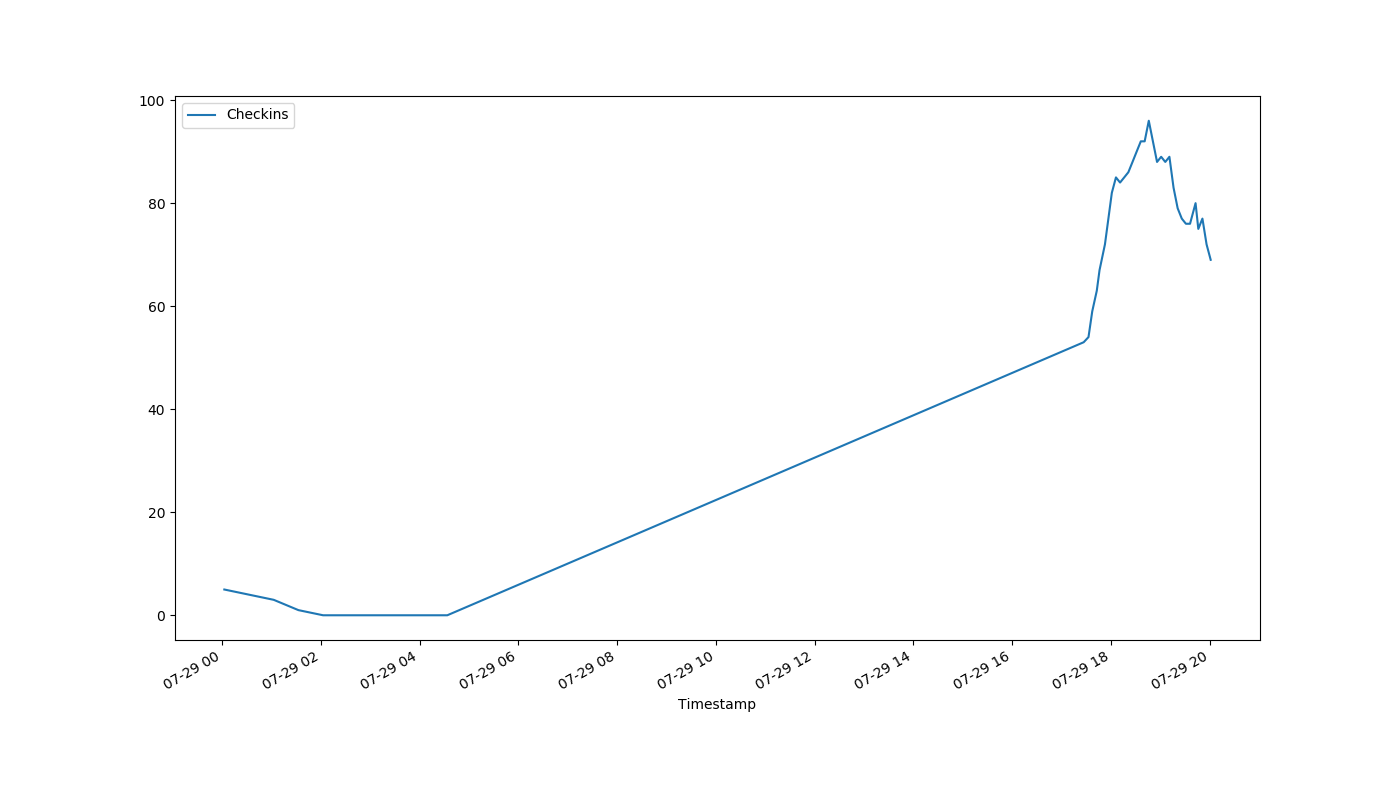
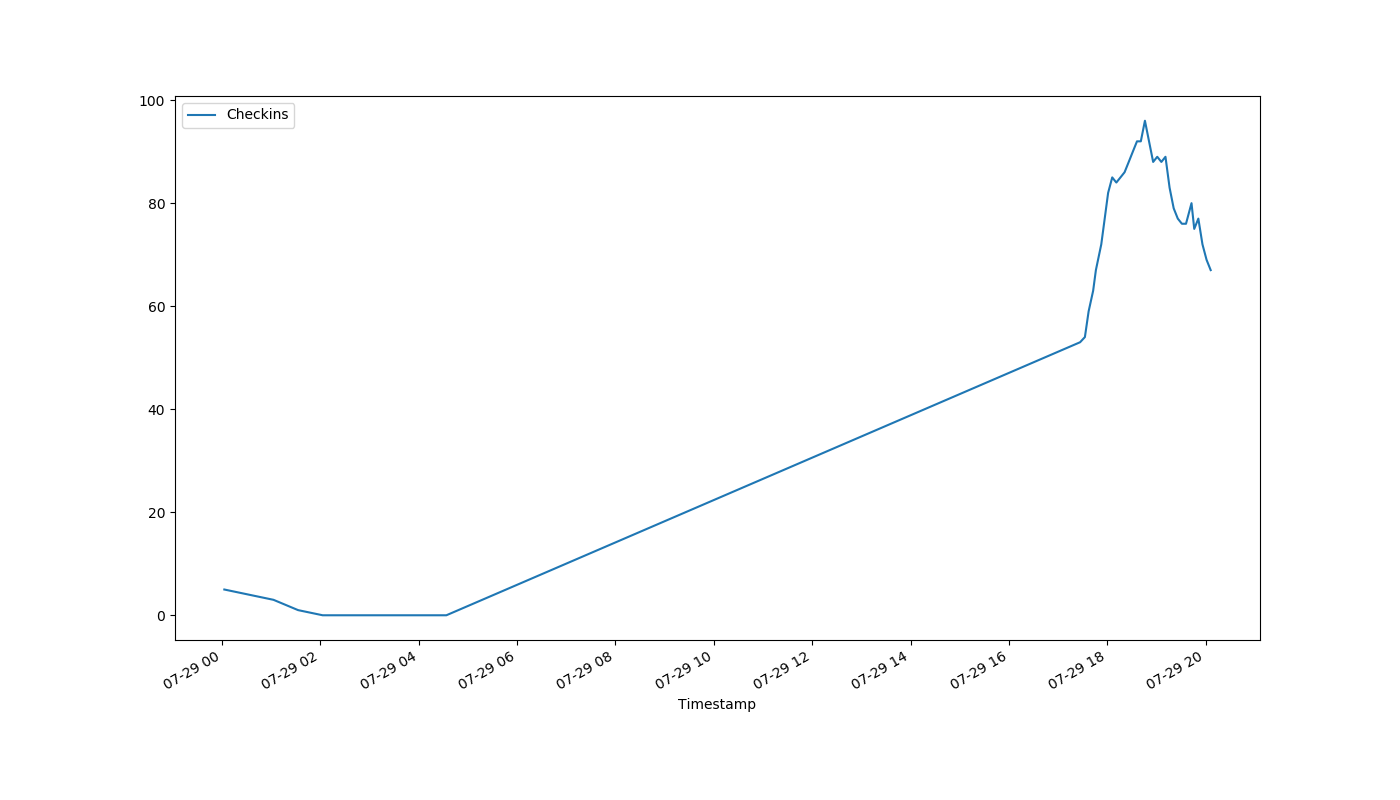
auto-Jul-29-20:08:33

diff --git a/index.html b/index.html
@@ -1,1 +1,1 @@
-<!DOCTYPE html><html><head><meta http-equiv="refresh" content="30"><link rel='stylesheet' href='holmcurrent.css'></head><body><p id='count'>69</p><div id='graph-wrap'><img id='graph' src='holmgraph-Jul-29.png'></div><p id='updated'>Last updated 20:02:05 / 20:01:13</p></body></html>
+<!DOCTYPE html><html><head><meta http-equiv="refresh" content="30"><link rel='stylesheet' href='holmcurrent.css'></head><body><p id='count'>67</p><div id='graph-wrap'><img id='graph' src='holmgraph-Jul-29.png'></div><p id='updated'>Last updated 20:07:05 / 20:06:14</p></body></html>
